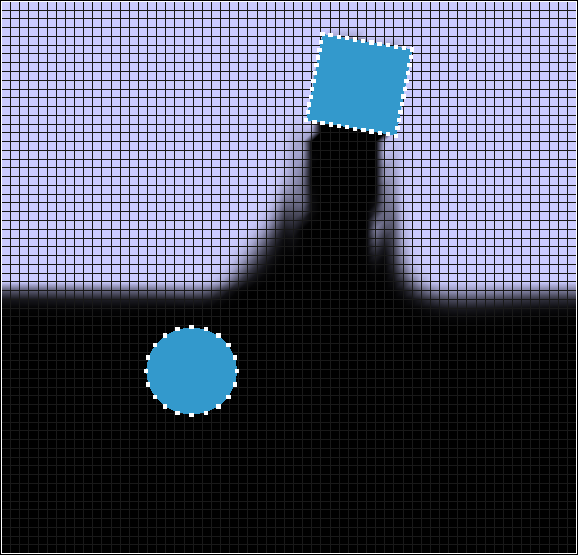
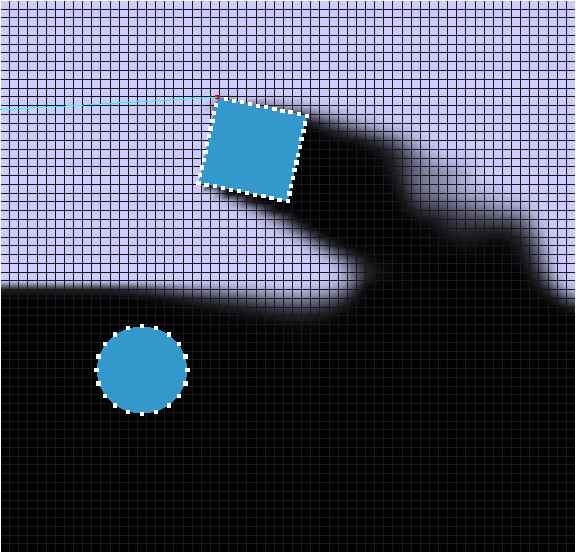
Extra image of fluid force on rigid bodies and adjusted font for captions

diff --git a/Fluid Simulation/Report2/movingrigid.tex b/Fluid Simulation/Report2/movingrigid.tex
@@ -5,16 +5,22 @@ Moving solid objects and rigid bodies are implemented using particles. The only 
 To make the fluid act more naturally around the boundary of an object, also boundary conditions for objects are introduced. Boundary conditions for objects are defined the same way as boundary conditions for fixed objects. To find the cells of the fluid grid which are on the boundary of the object, we firstly find the bounding box of the object. Then we check for each cell in the bounding box if it contains a part of the boundary of the object or if the cell is completely inside the object.\\
 Then for cells which contain a boundary, the same technique as boundary conditions for fixed objects is used. For cells which are inside an object, all components (velocity and density) are set to zero such that they do not have any influence on the object. The downside of setting the fluids density to zero within the object is that the object will remove most of the density, since the boundary force is not sufficient enough to push the fluids away, but it looks more realistic, because the objects leaves a trail as can be seen in figure \ref{fig:trail}.
 
-\begin{figure}[!tb]
+\begin{figure}[!htb]
 \centering
   \includegraphics[height=0.5\textwidth]{img/trail}
-  \captionof{figure}{Moving rigid body through the fluid leaving a trail}
+  \captionof{figure}{Rigid body being dragged by a spring force through the fluid leaving a trail}
   \label{fig:trail}
 \end{figure}
+
 \subsection{Object forces}
 The total force on an object is defined as $F = \sum{F_i}$, where $F_i$ is the force acting on particle $p_i$ and the total torque on a rigid body is $\tau = \sum{((r_i - x) \times F_i)}$, where $r_i$ is the world position of particle $p_i$. The mass moment of inertia of a body is dependant on the shape of the object. We implemented two type of objects, a rectangle and a disk. The mass moment of inertia $I$ for those object are $I_r =  m (w^2 + h^2)$ and $I_d = \frac{mr^2}{2}$ for a rectangle and a disk respectively.\\
-There are two ways in which forces can be applied to an object. Firstly, the fluids pressure can apply forces to the particles of an object as described in the previous section. Secondly the user is able to select one of the particles of an object to create a spring force between the mouse cursor and the particle. Also to make sure an object comes to rest naturally, a drag force is used for both linear and angular velocity.
-
+There are two ways in which forces can be applied to an object. Firstly, the fluids pressure can apply forces to the particles of an object as described in the previous section. Secondly the user is able to select one of the particles of an object to create a spring force between the mouse cursor and the particle. Also to make sure an object comes to rest naturally, a drag force is used for both linear and angular velocity. In figure \ref{fig:fluidobject} it can be seen that the fluid exerts force on rigid bodies.
+\begin{figure}[!htb]
+\centering
+  \includegraphics[height=0.5\textwidth]{img/fluidobject}
+  \captionof{figure}{Rigid bodies being moved by forces exerted by the fluid}
+  \label{fig:fluidobject}
+\end{figure}
 \subsection{Object to fluid coupling}
 To make the simulation more realistic, solid objects and rigid bodies also exert forces to the fluids. This is done by adding velocity to the velocity field around the object. To find the cells around the object, just like with the boundary conditions, we find the bounding box of the object and then find the cells which contain a part of the boundary of the object. Then for the cells next to the boundary, we add a fraction of objects velocity to these cells, such that the density around the object will also be advected in the direction in which the object is moving. The influence of the object on the velocity field can be seen in figure \ref{fig:objectfluid}.
 

diff --git a/Fluid Simulation/Report2/report.tex b/Fluid Simulation/Report2/report.tex
@@ -1,6 +1,6 @@
 \documentclass[a4paper,twoside,11pt]{article}
 \usepackage{a4wide,graphicx,fancyhdr,amsmath,amssymb,amsthm}
-\usepackage{subcaption, caption}
+\usepackage[font=small,labelfont=bf]{caption}
 \usepackage{hyperref}
 \usepackage{url}
 \urlstyle{rm}
@@ -74,7 +74,6 @@
 \input{fixedobjects.tex}
 \input{particles.tex}
 \input{movingrigid.tex}
-\input{results.tex}
 \input{conclusion.tex}
 
 \begin{thebibliography}{1}
